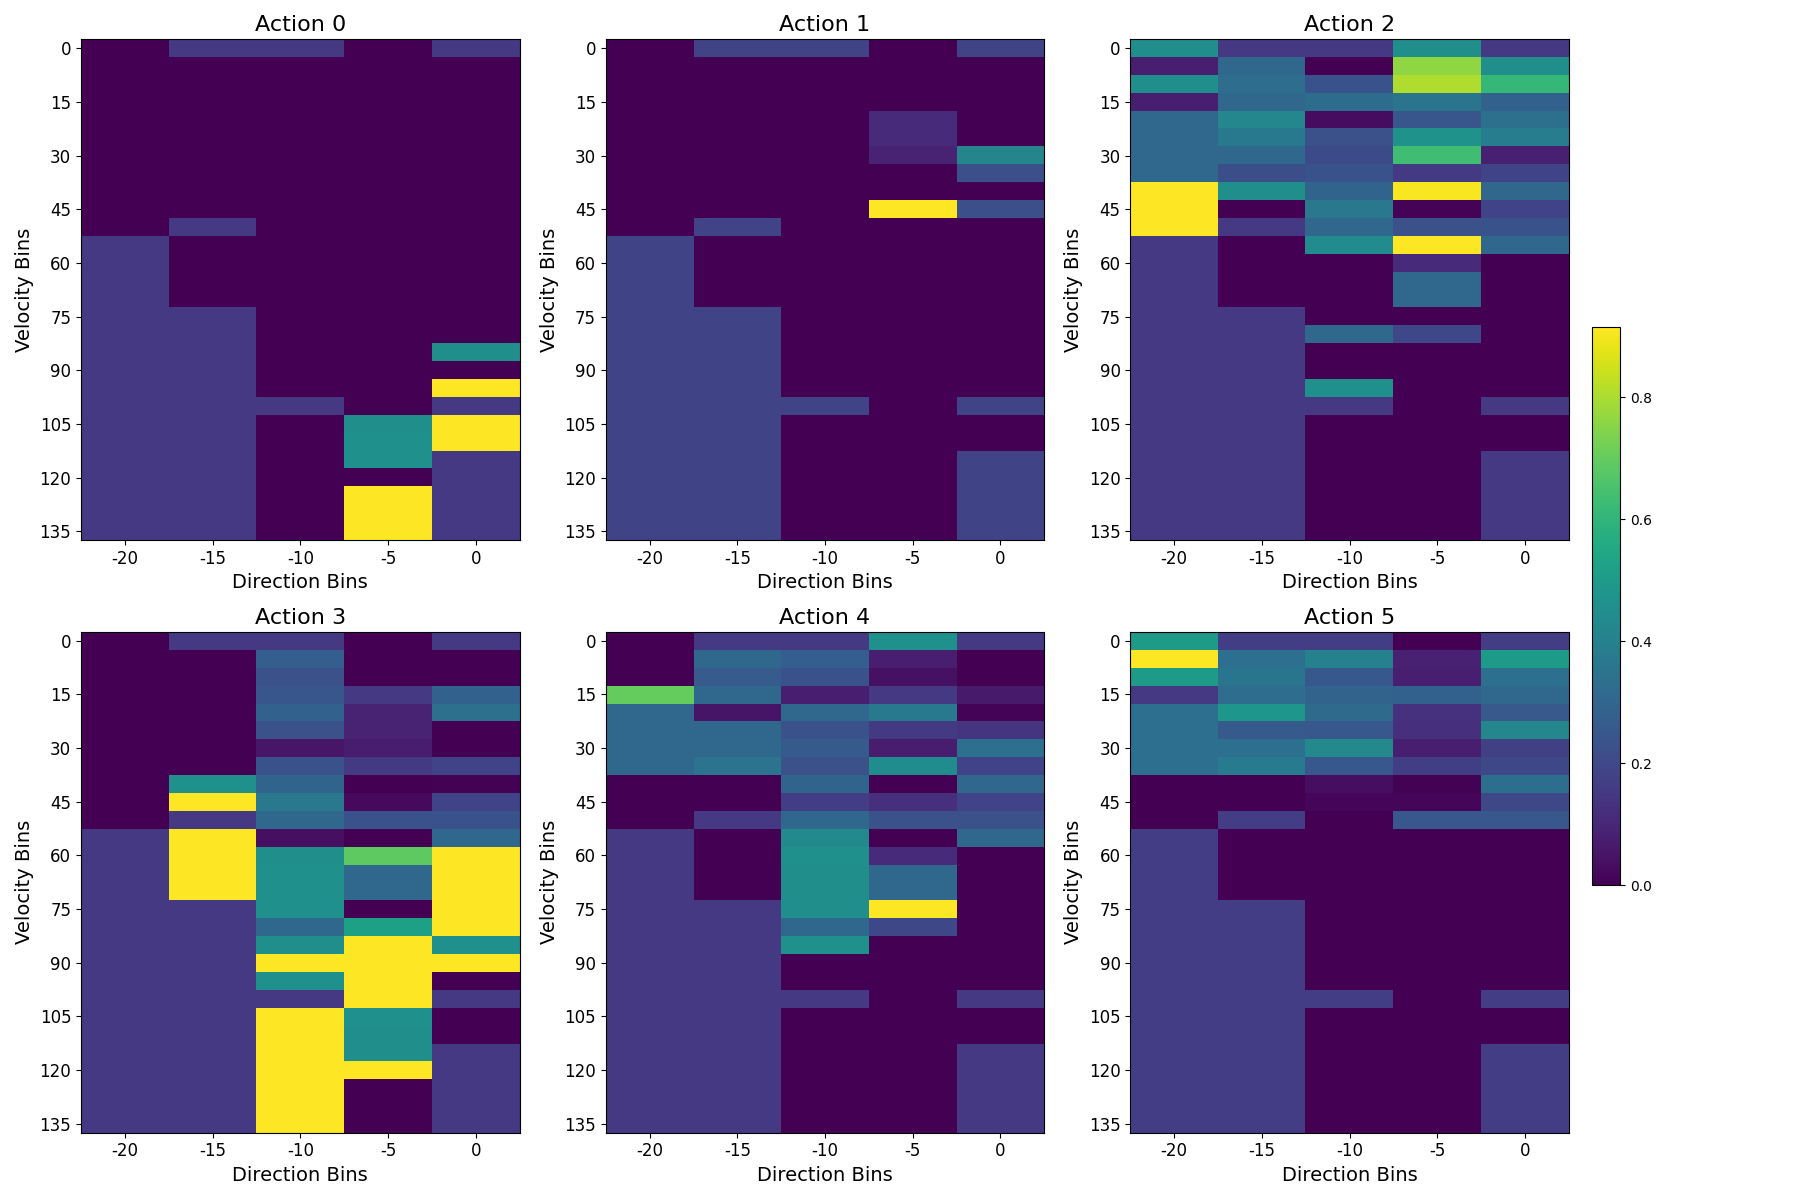
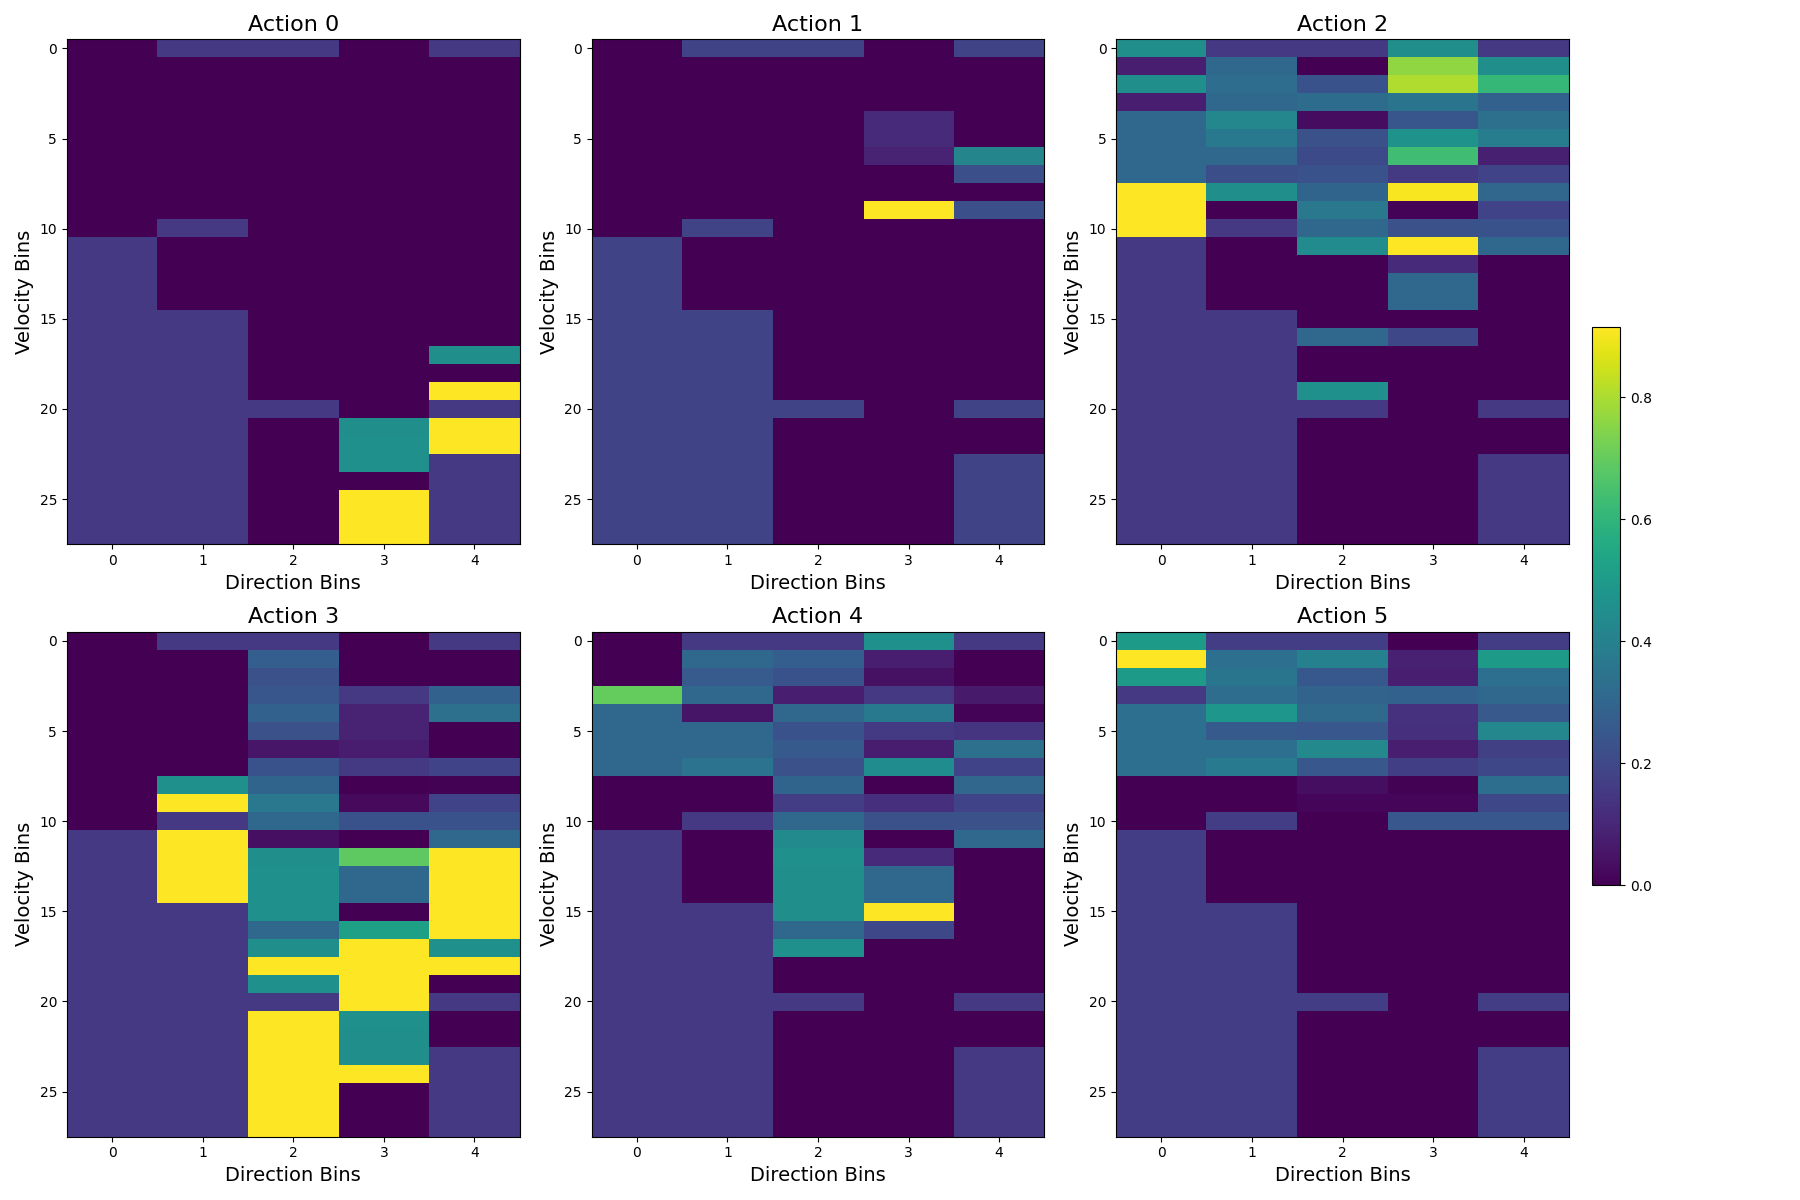
commit

diff --git a/train_dirvel.py b/train_dirvel.py
@@ -115,7 +115,7 @@ lable_bin2="Velocity Bins"
 # np.savetxt(test_folder+'inferred_rewards_maxent_direction.csv', rewards, delimiter=',')
 
 
-def plot_most_rewarded_action(q_values, test_folder):
+def plot_most_rewarded_action(q_values, lable_bin1, lable_bin2, test_folder):
     # Find the action with the highest Q-value for each state
     most_rewarded_action = np.argmax(q_values, axis=1)
     print("Most rewarded action shape: ", most_rewarded_action.shape)
@@ -123,8 +123,8 @@ def plot_most_rewarded_action(q_values, test_folder):
     plt.figure(figsize=(10, 8))
     sns.heatmap(most_rewarded_action.reshape(n_velocity_bins, n_direction_bins), cmap="YlGnBu", annot=True)
     plt.title("Most Rewarded Action for Each State")
-    plt.xlabel("State Index")
-    plt.ylabel("State Index")
+    plt.xlabel(lable_bin1)
+    plt.ylabel(lable_bin2)
     plt.savefig(test_folder+'most_rewarded_action_heatmap.png')
 
 def plot_q_table(q_values, test_folder):
@@ -155,8 +155,8 @@ def plot_action_reward_subplots(q_values, n_bin1, n_bin2, n_actions, lable_bin1,
         ax = axes[action_index]
         img = ax.imshow(reward_grid, cmap='viridis', aspect='auto')
         ax.set_title(f"Action {action_index}", fontsize=16)
-        ax.set_xticks(ticks=np.arange(0, n_bin1), labels=np.arange(-20, 5, step=5), fontsize=12)
-        ax.set_yticks(ticks=np.arange(0, n_bin2)[::3], labels=np.arange(0, 140, step=5)[::3], fontsize=12)
+        # ax.set_xticks(ticks=np.arange(0, n_bin1), labels=np.arange(-20, 5, step=5), fontsize=12)
+        # ax.set_yticks(ticks=np.arange(0, n_bin2)[::3], labels=np.arange(0, 140, step=5)[::3], fontsize=12)
         ax.set_xlabel(lable_bin1, fontsize=14)
         ax.set_ylabel(lable_bin2, fontsize=14)
     # Add a color bar to the last subplot, shared across all subplots
@@ -173,6 +173,6 @@ q_values = maxent.find_policy(n_states, rewards, n_actions, discount, transition
 print("Q-values shape: ", q_values.shape)
 # save the q_values as a CSV file
 np.savetxt(test_folder+'q_values_maxent_direction.csv', q_values, delimiter=',')
-plot_most_rewarded_action(q_values, test_folder)
+plot_most_rewarded_action(q_values, lable_bin1, lable_bin2, test_folder)
 plot_q_table(q_values, test_folder)
 plot_action_reward_subplots(q_values, n_bin1, n_bin2, n_actions, lable_bin1, lable_bin2, test_folder)
